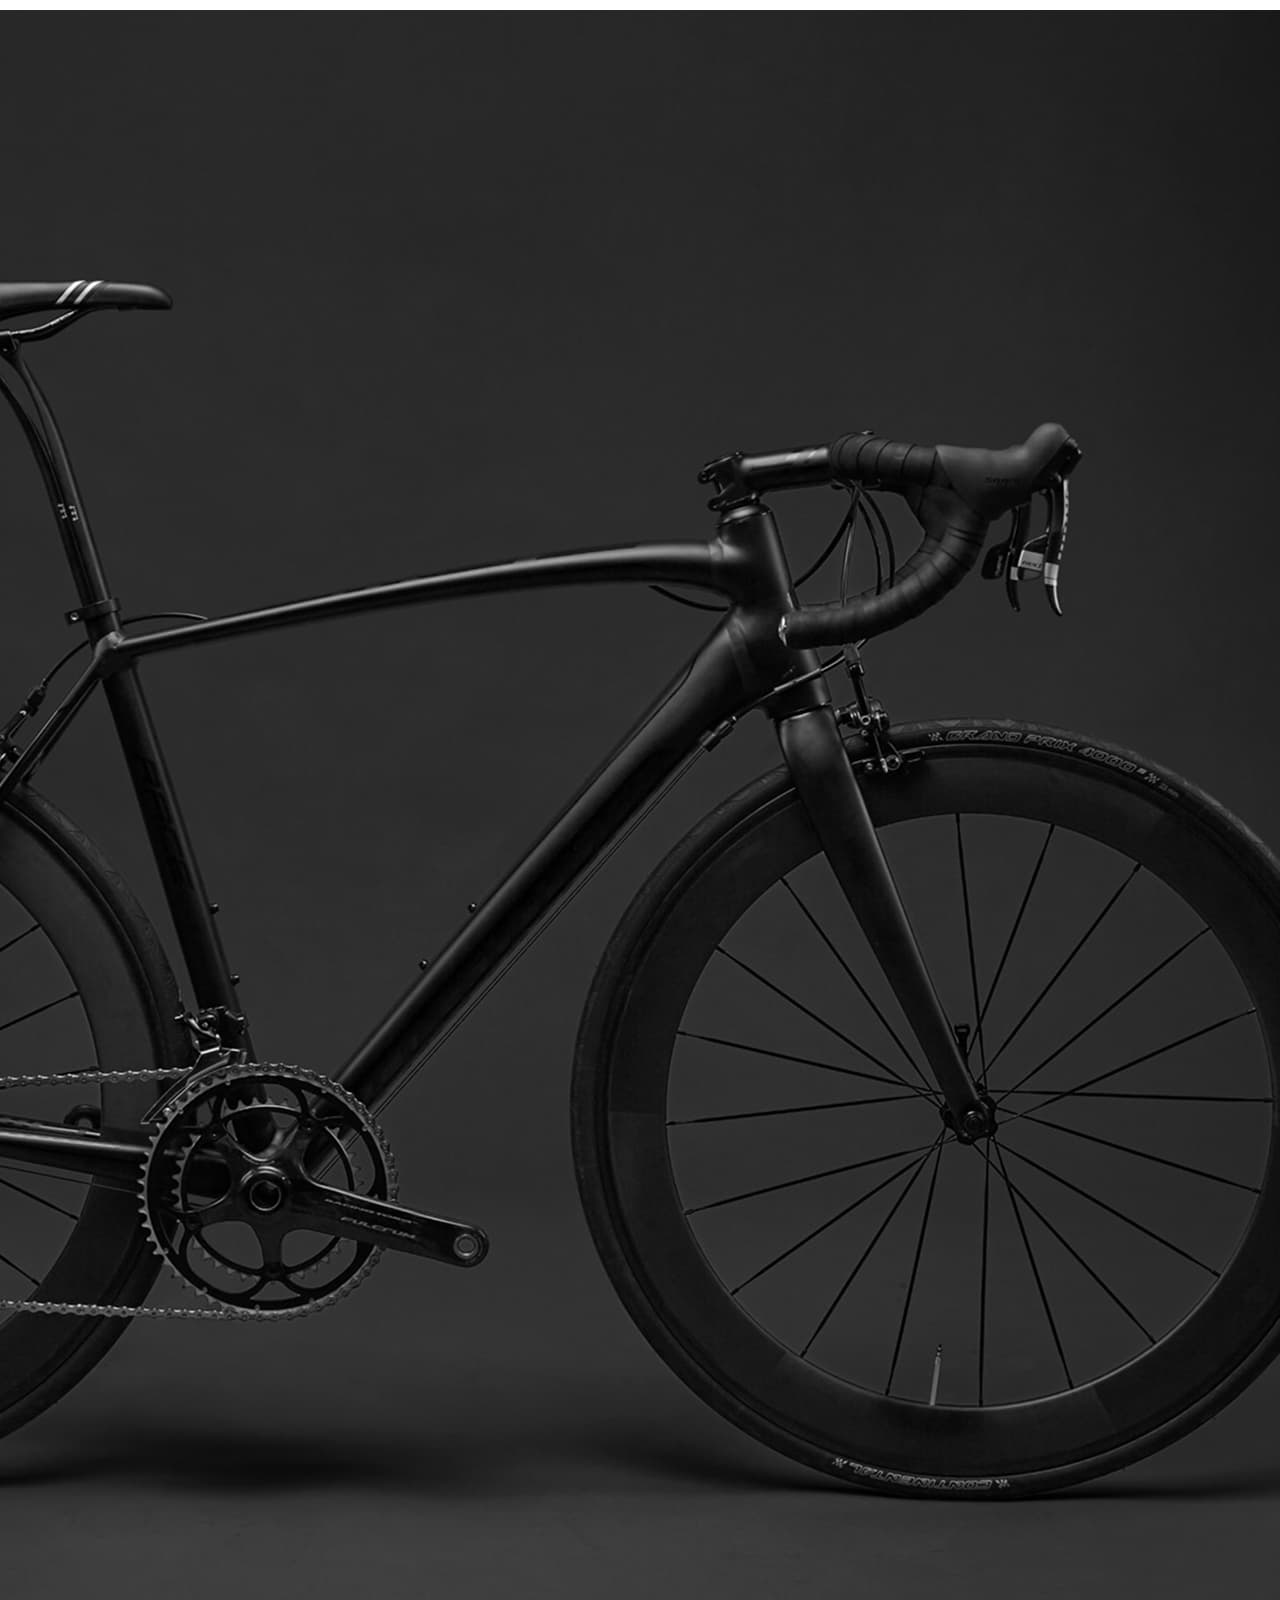
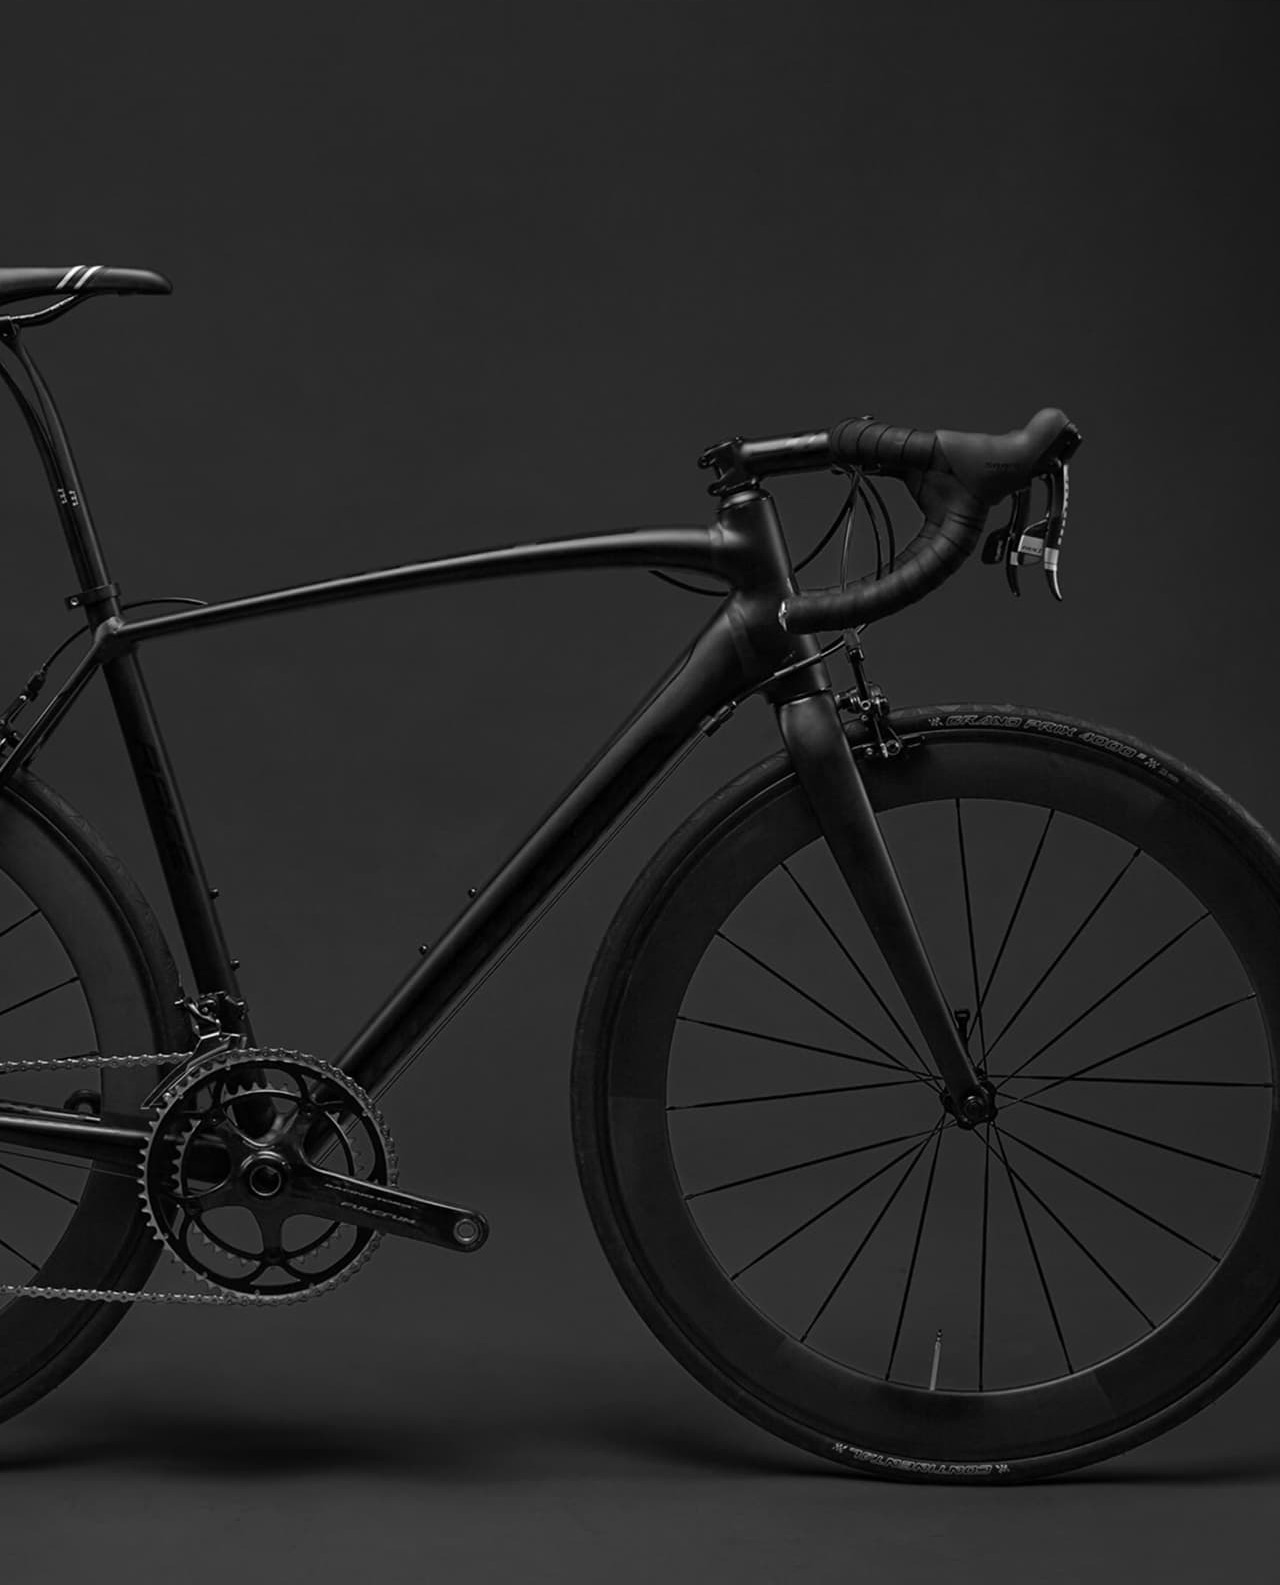
introduzindo-conteudo

diff --git a/css/style.css b/css/style.css
@@ -1,19 +1,29 @@
 body {
   margin: 0px;
   font-family: Arial, Helvetica, sans-serif;
+  padding-bottom: 600px;
+}
+h1,
+ul,
+p {
+  margin: 0px;
 }
 ul {
-  margin: 0px;
   padding: 0px;
   list-style: none;
 }
 a {
   text-decoration: none;
+  color: inherit;
 }
 .header-bg {
   background-color: #000;
 }
 
+img {
+  max-width: 100%;
+  display: block;
+}
 .header {
   display: flex;
   flex-wrap: wrap;
@@ -79,5 +89,106 @@ a {
   .header-menu a {
     padding: 8px 12px;
     font-size: 14px;
+  }
+}
+
+.introducao-bg {
+  background-color: #000;
+  color: #fff;
+  box-shadow: inset 0 -120px #fff;
+}
+
+.introducao {
+  display: grid;
+  grid-template-columns: 1fr 1fr;
+  gap: 0px 40px;
+  box-sizing: border-box;
+  max-width: 1200px;
+  padding-left: 20px;
+  padding-right: 20px;
+  margin-left: auto;
+  margin-right: auto;
+}
+
+.introducao-conteudo {
+  align-self: end;
+  padding-bottom: 200px;
+}
+
+.introducao img {
+  height: 100%;
+  object-fit: cover;
+}
+
+.introducao h1 {
+  margin-bottom: 32px;
+  font-size: 64px;
+  line-height: 1.125;
+}
+
+.introducao h1 span {
+  color: #ffbb00;
+}
+
+.introducao p {
+  margin-bottom: 20px;
+  font-size: 24px;
+  line-height: 1.5;
+  color: #b2b2b2;
+}
+
+.introducao a {
+  display: inline-block;
+  padding: 16px 32px;
+  background: linear-gradient(#ffbf00, #f2a50c);
+  border-radius: 4px;
+  box-shadow: 0 1px 2px 0 rgba(0, 0, 0, 0.1);
+  text-transform: uppercase;
+  color: #332200;
+  font-size: 18px;
+  line-height: 1.33;
+  font-weight: bold;
+}
+
+.introducao a:hover {
+  background: linear-gradient(#ffb60d, #e59317);
+}
+
+@media (max-width: 600px) {
+  .introducao a {
+    padding: 12px 16px;
+    font-size: 16px;
+  }
+}
+
+@media (max-width: 1200px) {
+  .introducao h1 {
+    font-size: 48px;
+  }
+  .introducao p {
+    font-size: 18px;
+  }
+}
+
+@media (max-width: 800px) {
+  .introducao-bg {
+    background: #111;
+    padding-top: 40px;
+    box-shadow: inset 0 -60px #fff;
+  }
+  .introducao {
+    grid-template-columns: 1fr;
+    gap: 32px;
+  }
+  .introducao-conteudo {
+    padding-bottom: 0px;
+  }
+  .introducao h1 {
+    font-size: 32px;
+    margin-bottom: 16px;
+  }
+  .introducao img {
+    height: 300px;
+    width: 100%;
   }
 }

diff --git a/index.html b/index.html
@@ -24,6 +24,18 @@
       </nav>
     </div>
   </header>
+  <main class="introducao-bg">
+    <div class="introducao">
+      <div class="introducao-conteudo">
+        <h1>Bicicletas feitas sob medida<span>.</span></h1>
+        <p>Bicicletas elétricas de alta precisão e qualidade, feitas sob medida para você. Explore o mundo na sua velocidade com a Bikcraft.</p>
+        <a href="./bicicletas.html">Escolha a sua</a>
+      </div>
+      <div>
+        <img src="./img/fotos/introducao.jpg" alt="Bicicleta elétrica preta">
+      </div>
+    </div>
+  </main>
 </body>
 
 </html>
